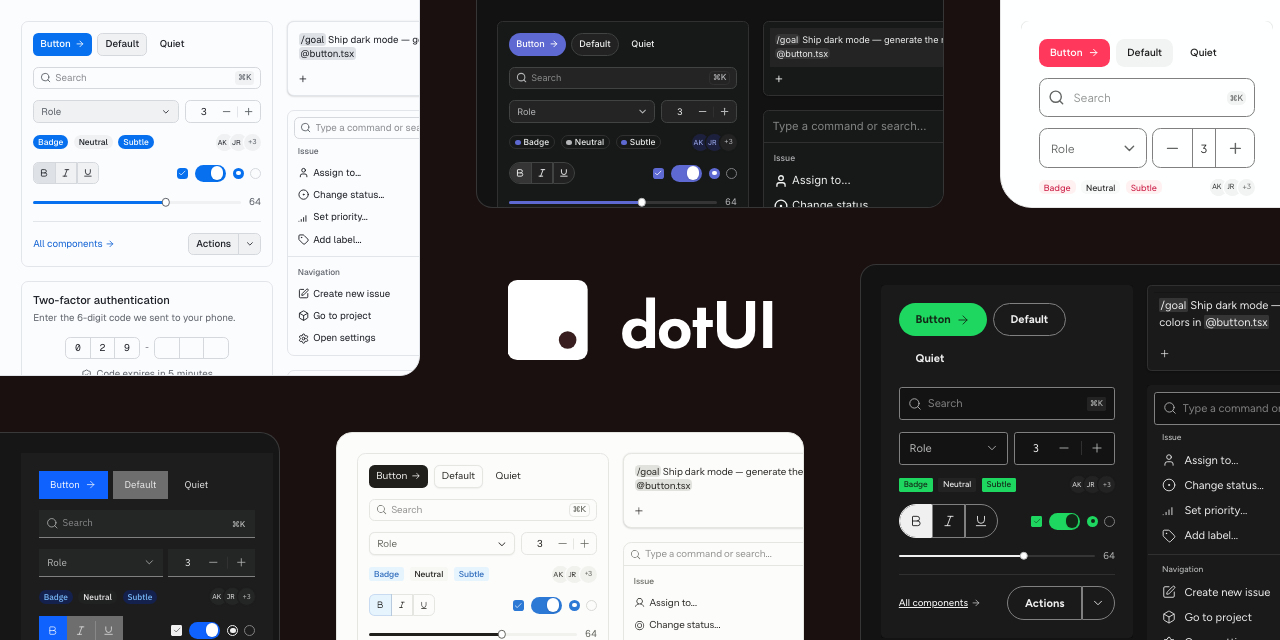
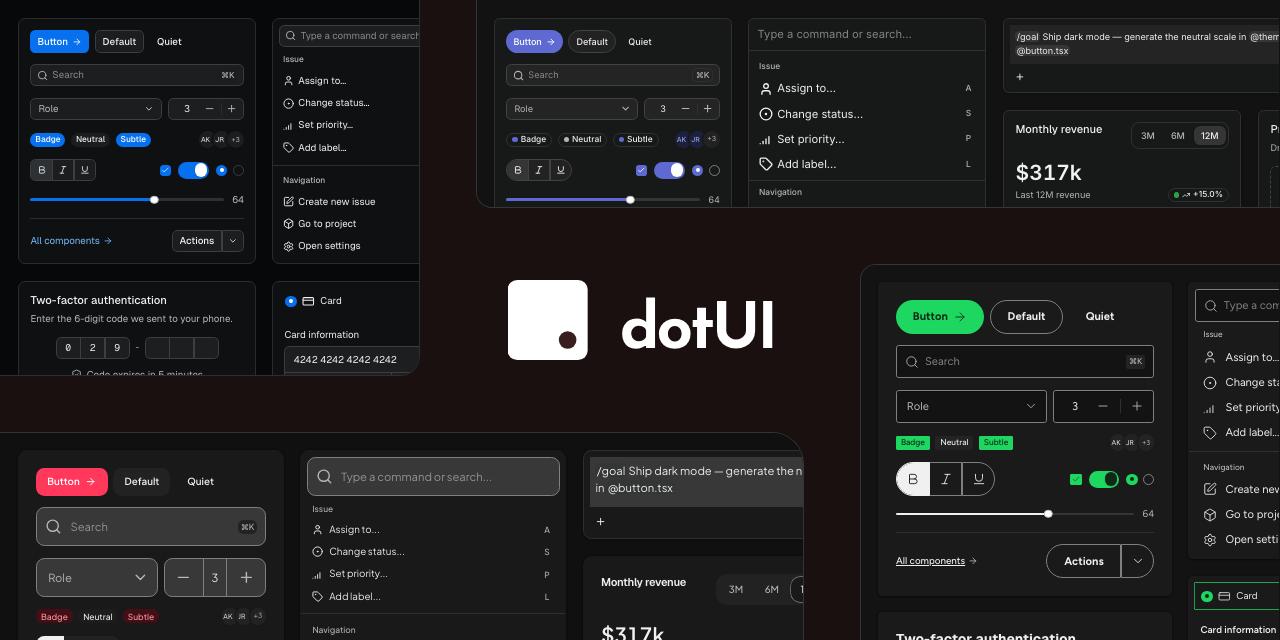
feat(brand): dark presets at fixed height on the four-preset cover

diff --git a/www/src/modules/marketing/cover.tsx b/www/src/modules/marketing/cover.tsx
@@ -3,8 +3,7 @@
 import { useEffect } from "react"
 
 import { DesignSystemProvider } from "@/lib/styles"
-import { cn } from "@/registry/lib/utils"
-import { CardsGrid } from "@/components/showcase/cards-grid"
+import { CardsCanvas } from "@/components/showcase/cards-grid"
 import { resolvePreset } from "@/modules/presets"
 
 type Side = "top" | "right" | "bottom" | "left"
@@ -15,19 +14,12 @@ const BLEED = -40
 const HALF_W = 220
 const HALF_H = 112
 const GUTTER = 56
-// Where the top and bottom rows split in two, from the center.
-const SPLIT = 360
 
 const fromCenter = (px: number) => `calc(50% + ${px}px)`
 
-const SLOTS: {
-  preset: string
-  mode: "light" | "dark"
-  inset: Record<Side, number | string>
-}[] = [
+const SLOTS: { preset: string; inset: Record<Side, number | string> }[] = [
   {
     preset: "origin",
-    mode: "light",
     inset: {
       top: BLEED,
       left: BLEED,
@@ -37,27 +29,15 @@ const SLOTS: {
   },
   {
     preset: "linear",
-    mode: "dark",
-    inset: {
-      top: BLEED,
-      left: fromCenter(GUTTER - HALF_W),
-      right: fromCenter(GUTTER - SPLIT),
-      bottom: fromCenter(HALF_H),
-    },
-  },
-  {
-    preset: "airbnb",
-    mode: "light",
     inset: {
       top: BLEED,
       right: BLEED,
-      left: fromCenter(SPLIT),
+      left: fromCenter(GUTTER - HALF_W),
       bottom: fromCenter(HALF_H),
     },
   },
   {
     preset: "spotify",
-    mode: "dark",
     inset: {
       bottom: BLEED,
       right: BLEED,
@@ -66,34 +46,24 @@ const SLOTS: {
     },
   },
   {
-    preset: "claude",
-    mode: "light",
-    inset: {
-      bottom: BLEED,
-      left: fromCenter(GUTTER - SPLIT),
-      right: fromCenter(GUTTER - HALF_W),
-      top: fromCenter(HALF_H),
-    },
-  },
-  {
-    preset: "carbon",
-    mode: "dark",
+    preset: "airbnb",
     inset: {
       bottom: BLEED,
       left: BLEED,
-      right: fromCenter(SPLIT),
+      right: fromCenter(GUTTER - HALF_W),
       top: fromCenter(HALF_H),
     },
   },
 ]
 
-function PresetContainer({ preset, mode, inset }: (typeof SLOTS)[number]) {
+function PresetContainer({ preset, inset }: (typeof SLOTS)[number]) {
   const designSystem = resolvePreset(preset)
-  const pad = (side: Side) => (inset[side] === BLEED ? 20 - BLEED : 20)
+  // Bleeding sides pad back to the visible edge; the canvas pads itself.
+  const pad = (side: Side) => (inset[side] === BLEED ? -BLEED : 0)
   return (
     <DesignSystemProvider
       scoped
-      forcedMode={mode}
+      forcedMode="dark"
       params={designSystem.componentParams}
       tokens={designSystem.tokens}
       density={designSystem.density}
@@ -108,12 +78,11 @@ function PresetContainer({ preset, mode, inset }: (typeof SLOTS)[number]) {
           paddingBottom: pad("bottom"),
           paddingLeft: pad("left"),
         }}
-        className={cn(
-          "absolute overflow-hidden rounded-2xl border bg-bg",
-          mode === "dark" ? "border-white/15" : "border-border",
-        )}
+        className="absolute overflow-hidden rounded-2xl border border-white/15 bg-bg"
       >
-        <CardsGrid side={false} className="w-[1120px] zoom-[0.7]" />
+        <div className="zoom-[0.7]">
+          <CardsCanvas />
+        </div>
       </div>
     </DesignSystemProvider>
   )
